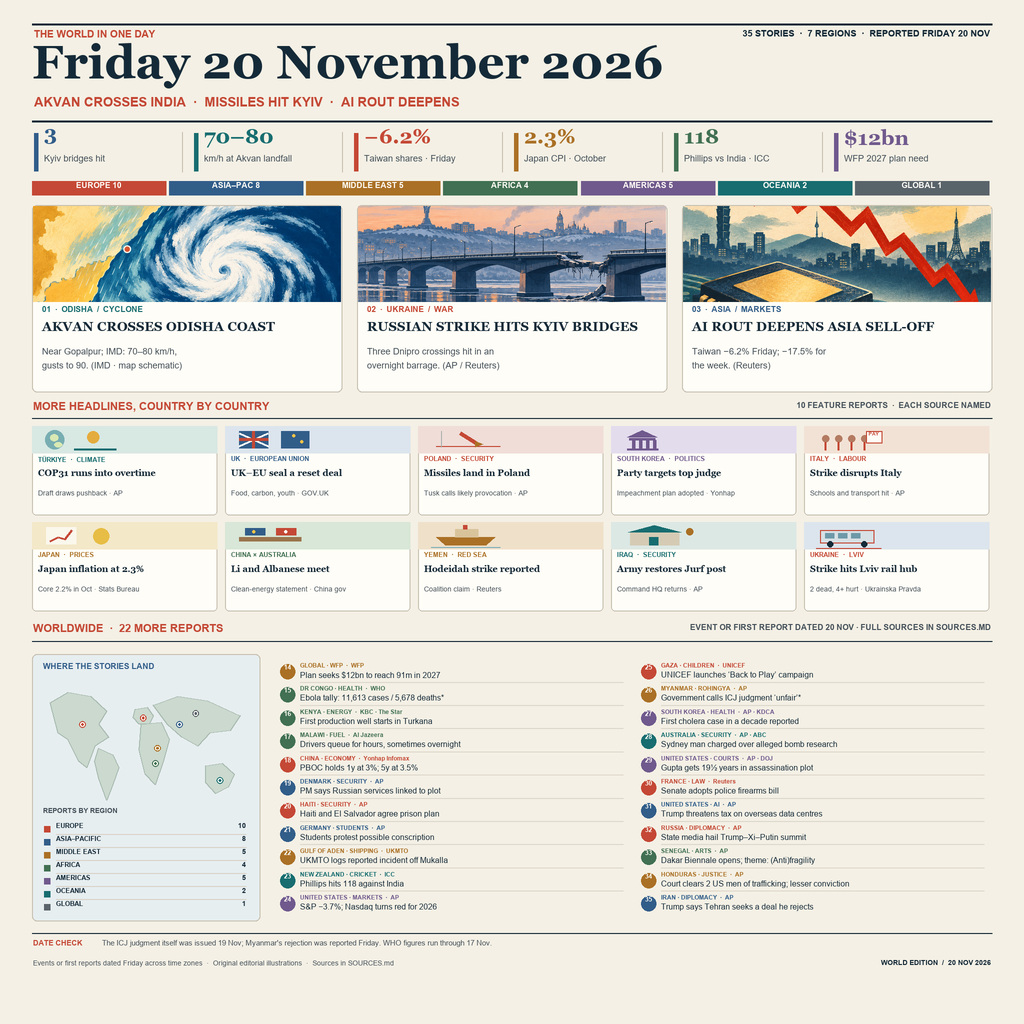
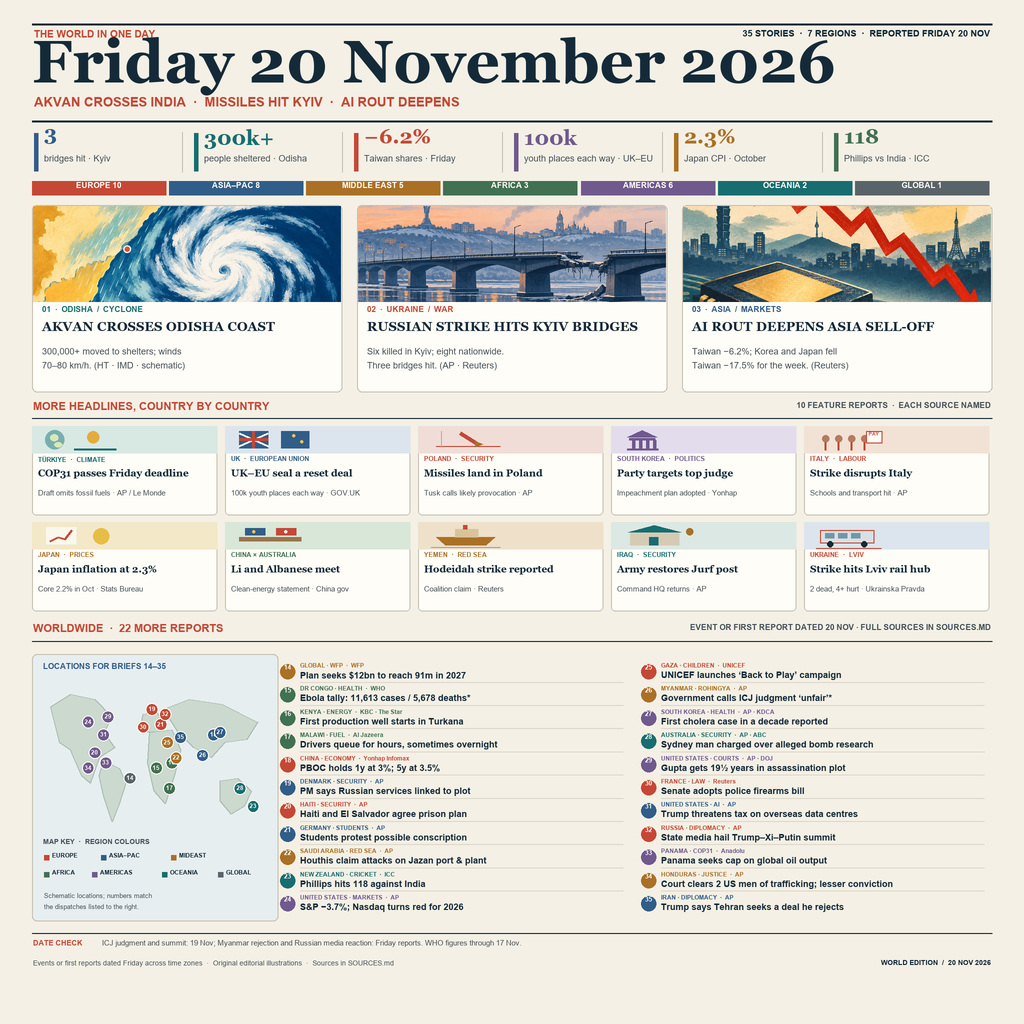
Clarify impact and map report locations

diff --git a/SOURCES.md b/SOURCES.md
@@ -4,14 +4,14 @@ This edition covers events that happened or were first reported on Friday, 20 No
 
 ## Lead stories
 
-1. **Cyclone Akvan, Odisha.** The India Meteorological Department reported Akvan over the south Odisha coast near Gopalpur at 11:30 IST on 20 November. Its bulletin gives the subsequent weakening; DD India and Hindustan Times report the 07:30–08:30 landfall window and 70–80 km/h winds gusting to 90 km/h. **The map is schematic.** [IMD bulletin](https://mausam.imd.gov.in/Forecast/marquee_data/39.%20National%20Bulletin%20No%2039-20Nov2026_1130IST.pdf) · [DD India](https://ddindia.co.in/2026/11/cyclone-akvan-crosses-north-andhra-south-odisha-coast-near-gopalpur/) · [Hindustan Times](https://www.hindustantimes.com/india-news/cyclone-akvan-completes-landfall-on-odisha-coast-lashes-state-with-heavy-rain-101795162109520.html)
-2. **Ukraine · Kyiv.** Reuters reported Russian missiles hit three bridges over the Dnipro in Kyiv in an overnight attack on 20 November. [Reuters via MarketScreener](https://www.marketscreener.com/news/eight-killed-in-ukraine-as-russia-hits-back-after-crimea-bridge-attacks-ce785ed3d98cf027) · [Associated Press](https://apnews.com/article/433e18f00cbd37a2a9da94e60fce0e07)
-3. **Asian markets.** Reuters reported Taiwan shares fell 6.2% on Friday, extending their weekly decline to 17.5%, the steepest since 1990. [Reuters via MarketScreener](https://www.marketscreener.com/news/asian-shares-head-for-worst-week-since-2020-as-ai-trade-gloom-fails-to-abate-ce785ed2de8ef627)
+1. **Cyclone Akvan, Odisha.** The India Meteorological Department reported Akvan over the south Odisha coast near Gopalpur at 11:30 IST on 20 November. Its bulletin gives the subsequent weakening; Hindustan Times reports landfall near 07:30–08:30 and roughly 300,000 people moved to shelters; IMD gives 70–80 km/h winds gusting to 90 km/h. **The map is schematic.** [IMD bulletin](https://mausam.imd.gov.in/Forecast/marquee_data/39.%20National%20Bulletin%20No%2039-20Nov2026_1130IST.pdf) · [DD India](https://ddindia.co.in/2026/11/cyclone-akvan-crosses-north-andhra-south-odisha-coast-near-gopalpur/) · [Hindustan Times](https://www.hindustantimes.com/india-news/cyclone-akvan-completes-landfall-on-odisha-coast-lashes-state-with-heavy-rain-101795162109520.html)
+2. **Ukraine · Kyiv.** Reuters reported Russian missiles hit three bridges over the Dnipro in Kyiv in an overnight attack on 20 November. AP reported six people killed in Kyiv and eight across Ukraine in the barrage. [Reuters via MarketScreener](https://www.marketscreener.com/news/eight-killed-in-ukraine-as-russia-hits-back-after-crimea-bridge-attacks-ce785ed3d98cf027) · [Associated Press](https://apnews.com/article/433e18f00cbd37a2a9da94e60fce0e07)
+3. **Asian markets.** Reuters reported Taiwan shares fell 6.2% Friday, extending their weekly decline to 17.5%, its steepest since 1990; South Korea and Japan also fell more than 5%. [Reuters via MarketScreener](https://www.marketscreener.com/news/asian-shares-head-for-worst-week-since-2020-as-ai-trade-gloom-fails-to-abate-ce785ed2de8ef627) · [Reuters via Fidelity](https://www.fidelity.com/news/article/international/202611201733RTRSNEWSCOMBINED_L6N4710ZL_1)
 
 ## Regional features
 
-4. **Climate · Türkiye.** COP31 ran past its scheduled Friday finish. The latest draft did not mention fossil fuels, and African countries objected to the lack of adaptation finance progress. [Le Monde](https://www.lemonde.fr/en/environment/article/2026/11/20/cop31-fossil-fuels-and-climate-funding-take-center-stage-in-final-stretch-of-negotiations_6785737_4.html) · [Associated Press](https://apnews.com/article/b54eebcade92e5ee4c513b9a5b2192a7)
-5. **UK–EU.** On 20 November, the UK and EU agreed a package covering food trade, emissions trading and a youth experience scheme. The UK government estimated a benefit of up to £17 billion a year; implementation remains subject to the parties’ legal frameworks. [UK government release](https://www.gov.uk/government/news/costs-cut-prime-minister-secures-deal-with-eu-to-cut-costs-keep-prices-down-and-create-opportunities-for-young-people-worth-up-to-17-billion-per-year) · [Joint statement](https://www.gov.uk/government/publications/ukeu-summit-2026-key-documents/uk-eu-summit-2026-joint-statement-html)
+4. **Climate · Türkiye.** COP31 ran past its scheduled Friday finish; the latest draft omitted fossil fuels. Panama said it would formally object unless the final deal added climate finance and capped oil production. [Le Monde](https://www.lemonde.fr/en/environment/article/2026/11/20/cop31-fossil-fuels-and-climate-funding-take-center-stage-in-final-stretch-of-negotiations_6785737_4.html) · [Associated Press](https://apnews.com/article/a683c5c87a7ee64caf4e9257948b6e40) · [Anadolu Agency](https://www.aa.com.tr/en/americas/panama-calls-for-global-oil-production-cap-outlines-key-demands-at-cop31/4132378)
+5. **UK–EU.** On 20 November, the UK and EU agreed a package covering food trade, emissions trading and a youth experience scheme. The governments say the scheme will admit 100,000 young people from each side per year; the UK estimated a benefit of up to £17 billion a year. Implementation remains subject to each side’s legal framework. [UK government release](https://www.gov.uk/government/news/costs-cut-prime-minister-secures-deal-with-eu-to-cut-costs-keep-prices-down-and-create-opportunities-for-young-people-worth-up-to-17-billion-per-year) · [Youth scheme explainer](https://www.gov.uk/government/publications/ukeu-summit-2026-key-documents/uk-eu-summit-2026-explainer-youth-experience-scheme-html) · [Joint statement](https://www.gov.uk/government/publications/ukeu-summit-2026-key-documents/uk-eu-summit-2026-joint-statement-html)
 6. **Poland.** Two Russian missiles and a suspected drone came down in Poland on Friday. Prime Minister Donald Tusk said the incident was likely a provocation; Polish and NATO authorities investigated. [Associated Press](https://apnews.com/article/433e18f00cbd37a2a9da94e60fce0e07)
 7. **South Korea · politics.** The ruling Democratic Party adopted seeking the impeachment of Supreme Court Chief Justice Cho Hee-dae as official party policy on Friday. [Yonhap News Agency](https://en.yna.co.kr/view/AEN20261120008800315?section=national%2Fpolitics)
 8. **Italy · labour.** A nationwide CGIL strike disrupted schools and transportation on Friday, as workers and students protested over wages, living costs and public services. [Associated Press](https://apnews.com/article/8a742daa7242c84d99307c1fcc864f62)
@@ -31,7 +31,7 @@ This edition covers events that happened or were first reported on Friday, 20 No
 19. **Denmark · security.** Denmark’s prime minister said authorities attributed a thwarted assassination attempt on an American-Ukrainian citizen to Russian intelligence. The plot was publicly announced on 20 November. [Danish Prime Minister’s Office](https://stm.dk/presse/pressemeddelelser/2026/statement-by-the-prime-minister/) · [Associated Press](https://apnews.com/article/03494b78067c9572120deac038addd23)
 20. **Haiti–El Salvador.** Haiti announced an agreement on Friday for El Salvador to help build new prisons, after Salvadoran troops deployed to support operations against gangs. [Associated Press](https://apnews.com/article/c3192c1276fd235b727666a05062db00)
 21. **Germany · students.** High-school students protested in Berlin against a possible return to compulsory military service and Germany’s military expansion. [Associated Press](https://apnews.com/article/8a742daa7242c84d99307c1fcc864f62)
-22. **Gulf of Aden · shipping.** UKMTO issued warning 213-26 on 20 November for a reported incident 95 nautical miles southwest of Al Mukalla, Yemen. The image describes it only as a reported incident. [UKMTO warning](https://www.ukmto.org/-/media/ukmto/products/20261120-ukmto_warning_213-26.pdf?rev=80e96f4329454560b7f2f47f0b953a)
+22. **Saudi Arabia · Red Sea.** AP reported that the Houthis claimed attacks on Jazan port and a power plant; the claim was not independently confirmed. [Associated Press](https://apnews.com/article/16c39c487a23b53b73c5eabb7f0fd57a)
 23. **New Zealand · cricket.** ICC reported Glenn Phillips scored 118 against India in Wellington on Friday local time, completing centuries against India in all three formats in 2026. [International Cricket Council](https://www.icc-cricket.com/tournaments/world-test-championship/news/new-zealand-aim-to-play-long-game-to-break-india-momentum)
 24. **United States · markets.** At Friday’s close, the S&P 500 fell 3.7%; the Nasdaq composite moved into negative territory for 2026. [Associated Press](https://apnews.com/article/c10b797a17c2acf37924d834efebe135)
 25. **Gaza · children.** On World Children’s Day, UNICEF launched its “Back to Play” campaign in Gaza. UNICEF said two in three families reported their children had no safe outdoor play area. [UNICEF State of Palestine](https://www.unicef.org/sop/press-releases/children-claim-their-right-play-gaza-world-childrens-day)
@@ -42,7 +42,7 @@ This edition covers events that happened or were first reported on Friday, 20 No
 30. **France · law.** The Senate gave final approval on Friday to a law presuming police officers act lawfully when using firearms; opponents said they would challenge it. [Reuters via StreetInsider](https://new.streetinsider.com/Reuters/French%2BSenate%2Bapproves%2Bpolice%2Bshootings%2Blaw%2Bdubbed%2B%27licence%2Bto%2Bkill%27%2Bby%2Bcritics/27381234.html) · [French Senate vote](https://www.senat.fr/scrutin-public/2026/scr2026-145.html)
 31. **United States · AI policy.** President Trump threatened a “tremendous tax” on U.S. companies building AI data centers abroad, without giving policy details. [Associated Press](https://apnews.com/article/f1ac03b73d13445400eeed8631d9d879)
 32. **Russia · summit reaction.** AP reported Friday that Russian state media portrayed the Trump–Xi–Putin meeting as a global watershed and emphasized Europe’s absence. The summit took place Thursday. [Associated Press](https://apnews.com/article/c26e8e954a7d51f1428ee711bf0120e0)
-33. **Senegal · arts.** Dakar’s Biennale of Contemporary African Art opened Friday with the theme “(Anti)fragility.” [Associated Press](https://apnews.com/article/0138f4d0655fdd8e8efee6b849936b89)
+33. **Panama · climate.** At COP31 on 20 November, Panama urged a cap on global oil output and threatened to object to the final deal without its climate-finance demands. [Anadolu Agency](https://www.aa.com.tr/en/americas/panama-calls-for-global-oil-production-cap-outlines-key-demands-at-cop31/4132378) · [Associated Press](https://apnews.com/article/a683c5c87a7ee64caf4e9257948b6e40)
 34. **Honduras · justice.** A court acquitted two U.S. citizens of human-trafficking charges in the Angie Peña case; it convicted them of the lesser offense of criminal association. [Associated Press](https://apnews.com/article/2b36e86071d22d25aba22c30cb6c0611)
 35. **Iran · diplomacy.** Trump said Friday that Tehran wanted a deal to end hostilities, but not one acceptable to him. [Associated Press](https://apnews.com/article/16c39c487a23b53b73c5eabb7f0fd57a) · [Associated Press follow-up](https://apnews.com/article/8fd6dcd6dc4a1a77437cedc4567fbee8)
 
